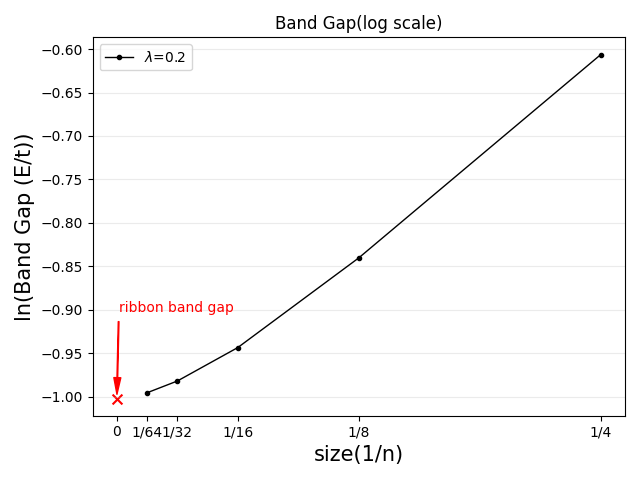
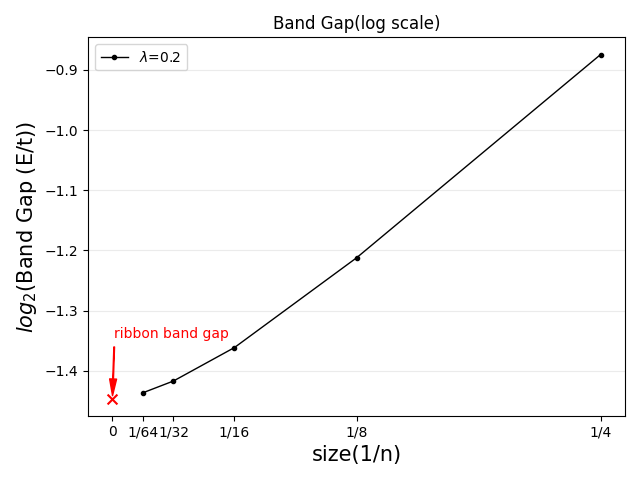
8/19

diff --git a/system_plot.py b/system_plot.py
@@ -129,10 +129,10 @@ class DataPlot():
         is_increase = True
         prev_y = ylist[0]
         for i, y in enumerate(ylist[1::]):
-            if prev_y - y > 0.0001:  # 의미있는 감소를 했는데
+            if prev_y - y > 0.01:  # 의미있는 감소를 했는데
                 if is_increase: peak_idx_list.append(i)  # 이전까지 증가했을 때(i-1이 아니라 i임 주의)
                 is_increase = False
-            elif prev_y - y < -0.0001:  # 의미있는 증가만 증가로 취급
+            elif prev_y - y < -0.01:  # 의미있는 증가만 증가로 취급
                 is_increase = True
             else:
                 is_increase = False
@@ -165,11 +165,15 @@ class DataPlot():
                 ax.plot(xlist,density,marker="o",markersize=3,linestyle="none",label=f"state={states[i]}", color=color_list[i])
 
             peak_idxs = DataPlot.get_peak(density)
+            y_scale = np.max(density) - np.min(density)
+            y_mid = (np.max(density) + np.min(density)) / 2
+            print(y_scale)
             for j in peak_idxs:
+                y_weight = 1 if density[j] > y_mid else -1
                 ax.annotate(
                     f"({xlabels[j]},{density[j]:1.3f})",
                     xy=(xlist[j], density[j]),  # 가리킬 점의 실제 좌표
-                    xytext=(xlist[j] + 3, density[j] - 0.03),  # 텍스트가 나타날 좌표
+                    xytext=(xlist[j], density[j] - y_weight * y_scale/6),  # 텍스트가 나타날 좌표
                     arrowprops=dict(facecolor='black', shrink=0.05, width=0.5, headwidth=5)  # 화살표 옵션
                 )
 
@@ -243,7 +247,7 @@ class DataPlot():
     #임의의 데이터 그리는 용도
     @staticmethod
     def draw_any_data(model, data,
-                             ax=None, title="data", fig_size=(6.4, 4.8), is_last=True, log=False):
+                             ax=None, title="data", fig_size=(6.4, 4.8), is_last=True, log=False, x_inverse=False):
         
         xlist, xi_list, xlabel, ylabel, label, extra_data = data
         model.set_title(title=title)
@@ -256,7 +260,7 @@ class DataPlot():
         if extra_data is not None:
             x0 = extra_data[0]
             y0 = extra_data[1]
-            if log: y0 = np.log(np.maximum(y0, 1e-13))
+            if log: y0 = np.log2(np.maximum(y0, 1e-13))
             ax.scatter(x0, y0, marker='x', s=50, color="red")
             ax.annotate(
                     f"ribbon band gap",
@@ -265,15 +269,17 @@ class DataPlot():
                     arrowprops=dict(facecolor='red', edgecolor='red', shrink=0.05, width=0.5, headwidth=5),  # 화살표 옵션
                     color="red"
                 )
+        if log:
+            xi_list = np.log2(np.maximum(xi_list, 1e-13))
         
-        if log: 
+        if x_inverse: 
             xlist_inverse = 1/np.asarray(xlist)
             xtick_labels = []
             for x in xlist: xtick_labels.append(f"1/{round(x,0)}")
-            xi_list = np.log(np.maximum(xi_list, 1e-13))
             ax.plot(xlist_inverse, xi_list, marker="o",markersize=3,linewidth=1, color="black", label=label)
             ax.set_xticks(np.insert(xlist_inverse, 0, 0) if extra_data is not None else xlist_inverse)
             ax.set_xticklabels(np.insert(xtick_labels,0, 0) if extra_data is not None else xtick_labels)
+        
         else:
             ax.plot(xlist, xi_list, marker="o", markersize=3, linewidth=1, color="black", label=label)
         
@@ -281,13 +287,15 @@ class DataPlot():
 
         if is_last:
             ax.grid(axis="y", alpha=0.25)
+            if x_inverse:
+                ax.set_xlabel(f"{xlabel}(1/n)", size=15)
+            else:
+                ax.set_xlabel(xlabel, size=15)
             if log: 
                 ax.set_title(f"{model.title}(log scale)")
-                ax.set_xlabel(f"{xlabel}(1/n)", size=15)
-                ax.set_ylabel(f"ln({ylabel})", size=15)
+                ax.set_ylabel(fr"$log_2$({ylabel})", size=15)
             else: 
                 ax.set_title(model.title)
-                ax.set_xlabel(xlabel)
                 ax.set_ylabel(ylabel, size=15)
             fig.tight_layout()
             fig.savefig(f"images/{model.name}_{title} - {xlabel}.png")

diff --git a/plot_many_data.py b/plot_many_data.py
@@ -13,20 +13,23 @@ if __name__ == '__main__':
 
         # default
         a = 1
-        params = [0, 1, 0.1, 0.2, 1, 30, 31]
-        #         Δ  t  tSO  lda B  n   m
-
+        params = [0.0, 1.0, 0.1, 0.2, 1.0, 30.0, 31.0]
+        #         Δ    t    tSO  lda  B    n     m
+        n,m = int(params[5]), int(params[6])
         param_idx = {
             't_SO': 2,
             'lda': 3
         }
 
         if variation_param == 'size':
+            variation_values = [float(v) for v in range(30, 51)]
+            '''
             power = range(6, 1, -1)
             variation_values = []
-            for p in power: variation_values.append(2 ** p)
+            for p in power: variation_values.append(float(2 ** p))
+            '''
         else:
-            variation_values = np.arange(0, params[1], 0.1)
+            variation_values = np.arange(0, 0.6, 0.1)
 
         xi_list = []
         band_gap_list = []
@@ -41,36 +44,38 @@ if __name__ == '__main__':
                 new_params[param_idx[variation_param]] = round(value,1)
 
             model = Diamond(a, new_params)
+            
             model.load_eigen_data()
             model.set_corner_states()
 
             states = model.corner_states
-            rsd_data = model.get_rsd_data([states[0]], path=1)
+            rsd_data = model.get_rsd_data([states[0]], path=1.5)
 
             x, density_list, *_ = rsd_data
-            '''
+            
             x_fit = x[:len(x)//2]
             d_fit = density_list[0][:len(density_list[0])//2]
 
             A, B, xi, C = model.get_exp_fit(x_fit, d_fit, log=True)
-            xi_list.append(xi + B)
+            xi_list.append(xi)
             
             fig, ax = plt.subplots(figsize=(10, 5))
             ax.plot(
                 x_fit,
-                A * np.exp(-np.abs(x_fit - B) / xi),
+                np.log(A) - np.abs(x_fit - B) / xi,
                 color='green'
             )
-            '''
+            
             band_gap_list.append(model.evals_list[0][states[1] + 1] - model.evals_list[0][states[0] - 1])
             split_list.append(model.evals_list[0][states[1]] - model.evals_list[0][states[0]])
-            #DataPlot.draw_rsd(model, rsd_data, ax=ax)
+            #DataPlot.draw_rsd(model, rsd_data, ax=ax, log=True)
+        
+        if variation_param == 'size': variation_values = [int(value) for value in variation_values]
+        DataPlot.draw_any_data(model,(variation_values, xi_list, variation_param, r"$\xi$", f"n={n}, m={m}", None), title="Localization length", log=True)
 
-        #DataPlot.draw_any_data(model,(variation_values[1:-1], xi_list[1:-1], variation_param, r"$\xi$", f"n={n}, m={m}", None), title="Localization length")
+        #DataPlot.draw_any_data(model,(variation_values, band_gap_list, variation_param, "Band Gap (E/t)", f"$\lambda$={params[3]}", [0, 0.367043]), title="Band Gap", log=True, x_inverse=True)
 
-        DataPlot.draw_any_data(model,(variation_values, band_gap_list, variation_param, "Band Gap (E/t)", f"$\lambda$={params[3]}", [0, 0.367043]), title="Band Gap", log=True)
-
-        #DataPlot.draw_any_data(model, (variation_values[26:], split_list[26:], variation_param, "Splitting (E/t)", f"$\lambda$={params[3]}", None), title="Splitting")
+        #DataPlot.draw_any_data(model, (variation_values, split_list, variation_param, "Splitting (E/t)", f"$\lambda$={params[3]}", None), title="Splitting", log=True, x_inverse=True)
         
 '''
 

diff --git a/save_many_data.py b/save_many_data.py
@@ -35,44 +35,62 @@ if __name__ == "__main__":
     if model_name == 'Diamond':
         #Diamond 1 0 1 0.1 0.2 1 30 31
         from diamond_model import Diamond
-        a, Delta, t, t_SO, lda, B, n, m = 1, 0, 1, 0.1, 0.2, 1, 30, 31      # 디폴트 값
-        
-        if variation_param == 't_SO':
-            for t_SO in np.arange(0, t, 0.1):
-                params = [Delta, t, t_SO, lda, B, n, m]
-                model = Diamond(a, params)
-                save_eigen_data(model)
-        elif variation_param == 'lda':
-            for lda in np.arange(0, t, 0.1):
-                params = [Delta, t, t_SO, lda, B, n, m]
-                model = Diamond(a, params)
-                save_eigen_data(model)
-        elif variation_param == 'size':
-            for n in np.arange(4, 50, 1):
-                m = n
-                params = [Delta, t, t_SO, lda, B, n, m]
-                model = Diamond(a, params)
-                save_eigen_data(model)
+        # default
+        a = 1
+        params = np.asarray([0, 1, 0.1, 0.2, 1, 30, 31])
+        #         Δ  t  tSO  lda B  n   m
+
+        param_idx = {
+            't_SO': 2,
+            'lda': 3
+        }
+
+        if variation_param == 'size':
+            power = range(6, 1, -1)
+            variation_values = []
+            for p in power: variation_values.append(2 ** p)
+        else:
+            variation_values = np.arange(0, params[1], 0.1)
+
+        for value in variation_values:
+            new_params = params.copy()
+
+            if variation_param == 'size':
+                new_params[5:7] = [value, value]
+            else:
+                new_params[param_idx[variation_param]] = round(value,1)
+
+            model = Diamond(a, new_params)
+            save_eigen_data(model)
 
     if model_name == 'Ribbon':
         #Ribbon 1 0 1 0.1 0.2 1 55
         from ribbon_model import Ribbon
-        a, Delta, t, t_SO, lda, B, n = 1, 0, 1, 0.1, 0.2, 1, 55  # 디폴트 값
-        if variation_param == 't_SO':
-            for t_SO in np.arange(0, t, 0.1):
-                params = Delta, t, t_SO, lda, B, n
-                model = Diamond(a, params)
-                save_eigen_data(model)
-        elif variation_param == 'lda':
-            for lda in np.arange(0, t, 0.1):
-                params = Delta, t, t_SO, lda, B, n
-                model = Diamond(a, params)
-                save_eigen_data(model)
-        elif variation_param == 'size':
-            for n in np.arange(0, 55, 1):
-                params = Delta, t, t_SO, lda, B, n
-                model = Diamond(a, params)
-                save_eigen_data(model)
+        # default
+        a = 1
+        params = np.asarray([0, 1, 0.1, 0.2, 1, 55])
+        #         Δ  t  tSO  lda B  n   m
+
+        param_idx = {
+            't_SO': 2,
+            'lda': 3
+        }
+
+        if variation_param == 'size':
+            variation_values = range(5, 55, 5)
+        else:
+            variation_values = np.arange(0, params[1], 0.1)
+
+        for value in variation_values:
+            new_params = params.copy()
+
+            if variation_param == 'size':
+                new_params[5:7] = [value, value]
+            else:
+                new_params[param_idx[variation_param]] = round(value,1)
+
+            model = Diamond(a, new_params)    
+            save_eigen_data(model)
 
     if model_name == 'Bulk':
         #Bulk 1 0 1 0.1

diff --git a/diamond_model.py b/diamond_model.py
@@ -12,9 +12,11 @@ class Diamond(System):
     # 인스턴스 함수 정의--------------------------------------------------------------------------------------------
     def __init__(self, a, params):
         super().__init__(a, params)
+        self.filename = f"diamond_delta={self.params[0]}_t={self.params[1]}_t_SO={self.params[2]}_lda={self.params[3]}_B={self.params[4]}_n={self.params[5]}_m={self.params[6]}.npz"
+
         self.params[5] = int(params[5])
         self.params[6] = int(params[6])
-        self.filename = f"diamond_delta={int(self.params[0])}_t={int(self.params[1])}_t_SO={self.params[2]}_lda={self.params[3]}_B={int(self.params[4])}_n={self.params[5]}_m={self.params[6]}.npz"
+        
         self.basis_num = int(2 * self.params[5] * self.params[6])    # spin 고려 안 한 기저 개수
         self.state_list = np.asarray(range(self.basis_num * 2))  # state에 번호 붙인 리스트, spin 고려 o
         self.corner_states = None
@@ -189,6 +191,11 @@ class Diamond(System):
             for i in range(m):
                 path_sites.append(n - 1 + i * 2 * n)
             path_name = "a-site edge"
+
+        elif path == 1.5: # 위쪽 빨간 테두리 반쪽
+            for i in range(n):
+                path_sites.append(i)
+            path_name = "a-site half edge"
 
         elif path == 2:  # 아래쪽 파란 테두리
             b = None
